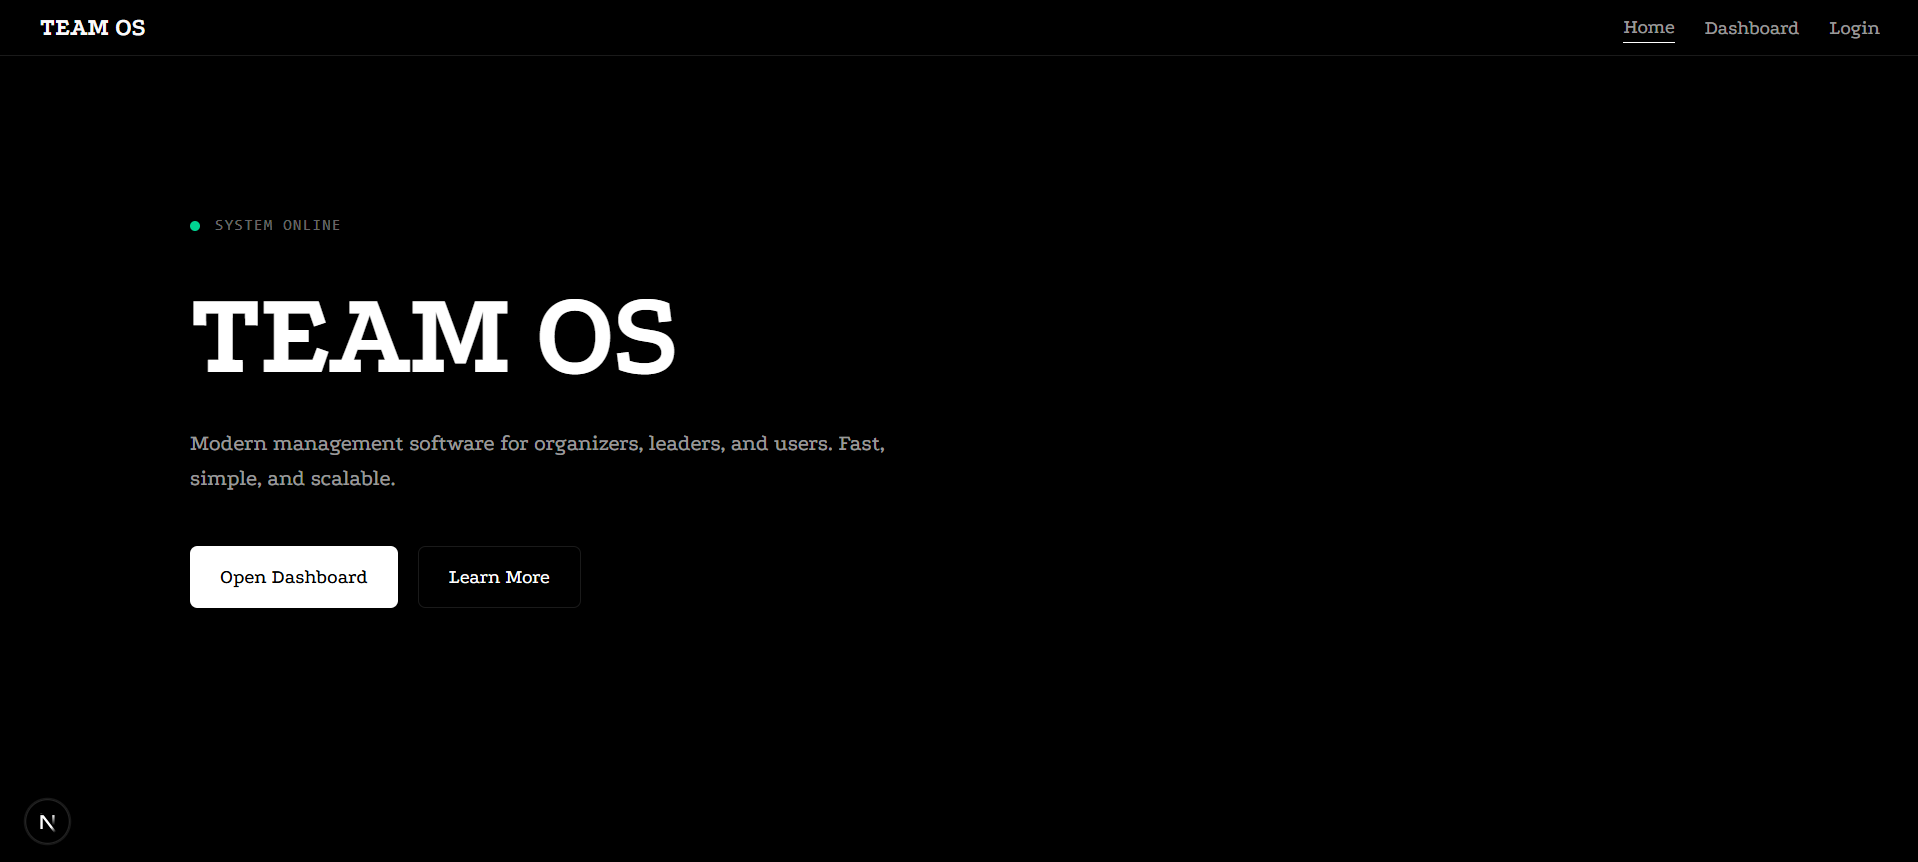
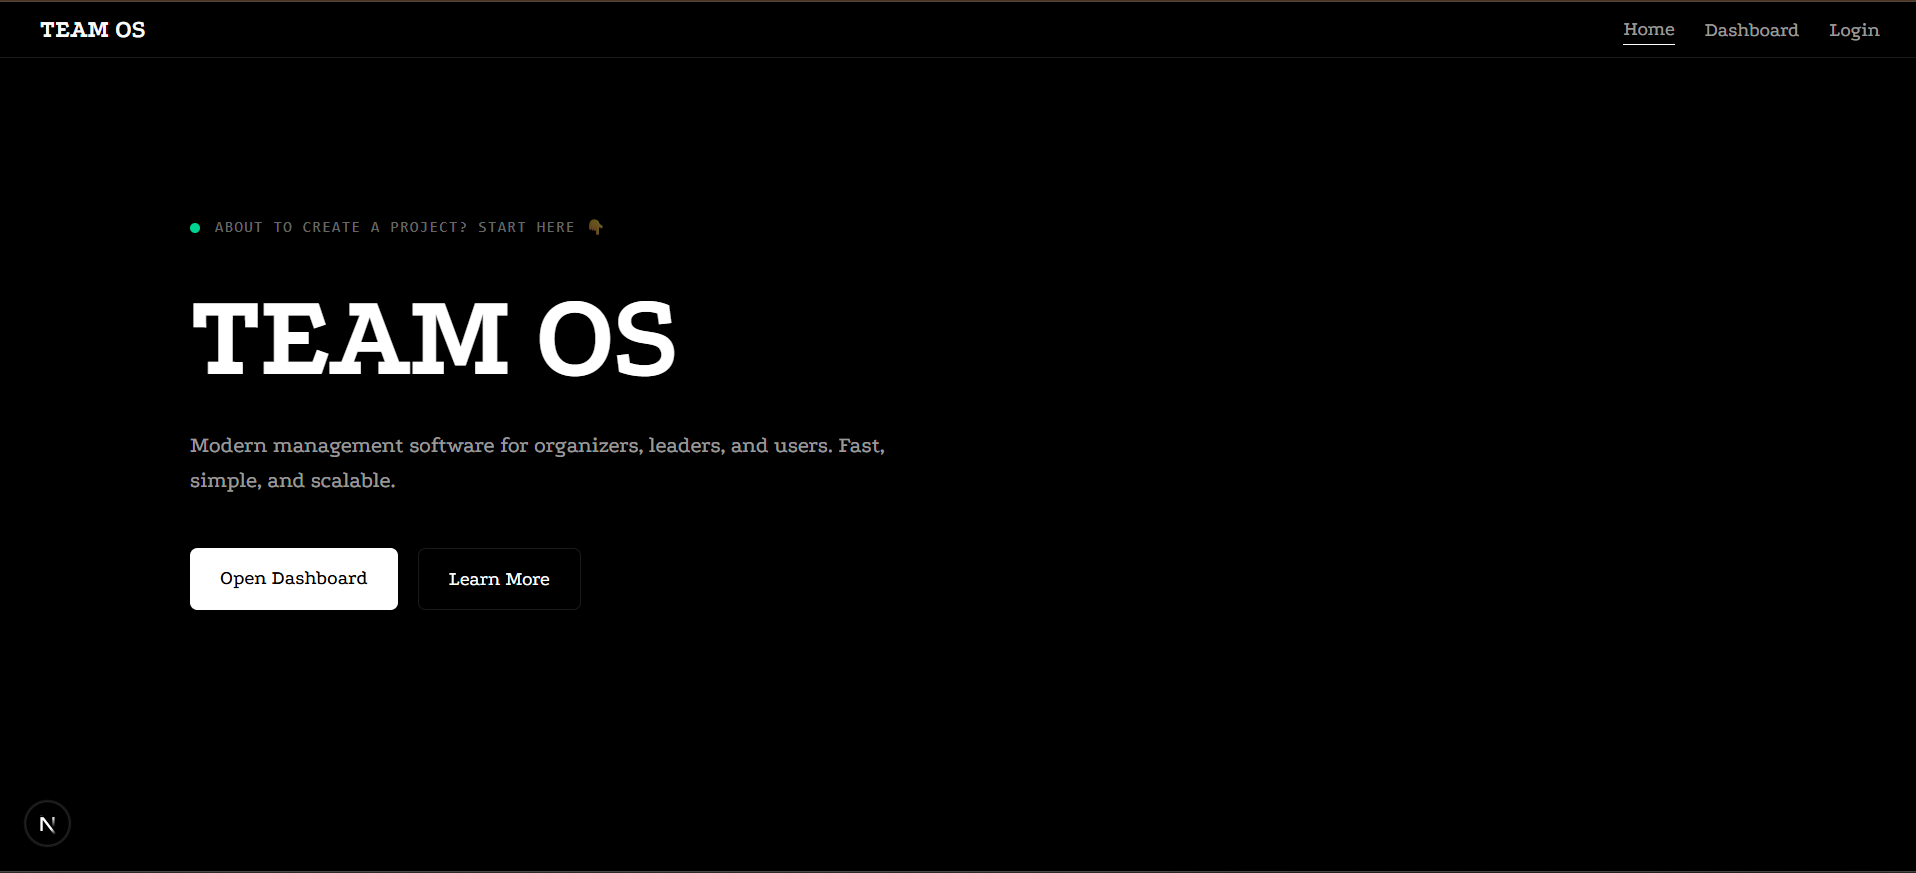
home  mistake fixed

diff --git a/app/page.tsx b/app/page.tsx
@@ -1,3 +1,5 @@
+import Link from "next/link";
+
 export default function Home() {
   return (
     <main className="min-w-full text-white">
@@ -6,7 +8,7 @@ export default function Home() {
           <div className="flex items-center gap-3 mb-8">
             <div className="w-2 h-2 rounded-full bg-emerald-400" />
             <span className="text-xs font-mono text-white/40 tracking-widest">
-              SYSTEM ONLINE
+              ABOUT TO CREATE A PROJECT? START HERE 👇
             </span>
           </div>
 
@@ -20,13 +22,13 @@ export default function Home() {
           </p>
 
           <div className="flex gap-4 mt-10">
-            <button className="px-6 py-3 rounded-md bg-white text-black font-medium hover:bg-white/90 transition">
+            <Link href="/dashboard" className="px-6 py-3 rounded-md bg-white text-black font-medium hover:bg-white/90 transition">
               Open Dashboard
-            </button>
+            </Link>
 
-            <button className="px-6 py-3 rounded-md border border-white/10 hover:border-white/30 transition">
+            <Link href="/learn-more" className="px-6 py-3 rounded-md border border-white/10 hover:border-white/30 transition">
               Learn More
-            </button>
+            </Link>
           </div>
         </div>
       </section>